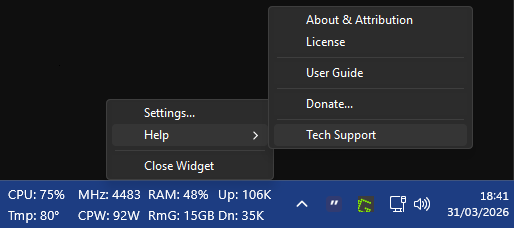
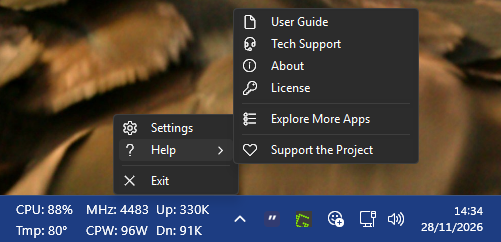
Refresh SysBar Free v1.3.0 screenshots

diff --git a/README.md b/README.md
@@ -6,7 +6,7 @@ SysBar is a lightweight, transparent taskbar widget that displays real-time hard
 
 ## Preview
 
-Screenshots show an earlier release. See the configuration guide below for the current Free menus.
+The app screenshots show SysBar Free v1.3.0. The web guide preview is from an earlier release.
 
 **Main Interface**
 
